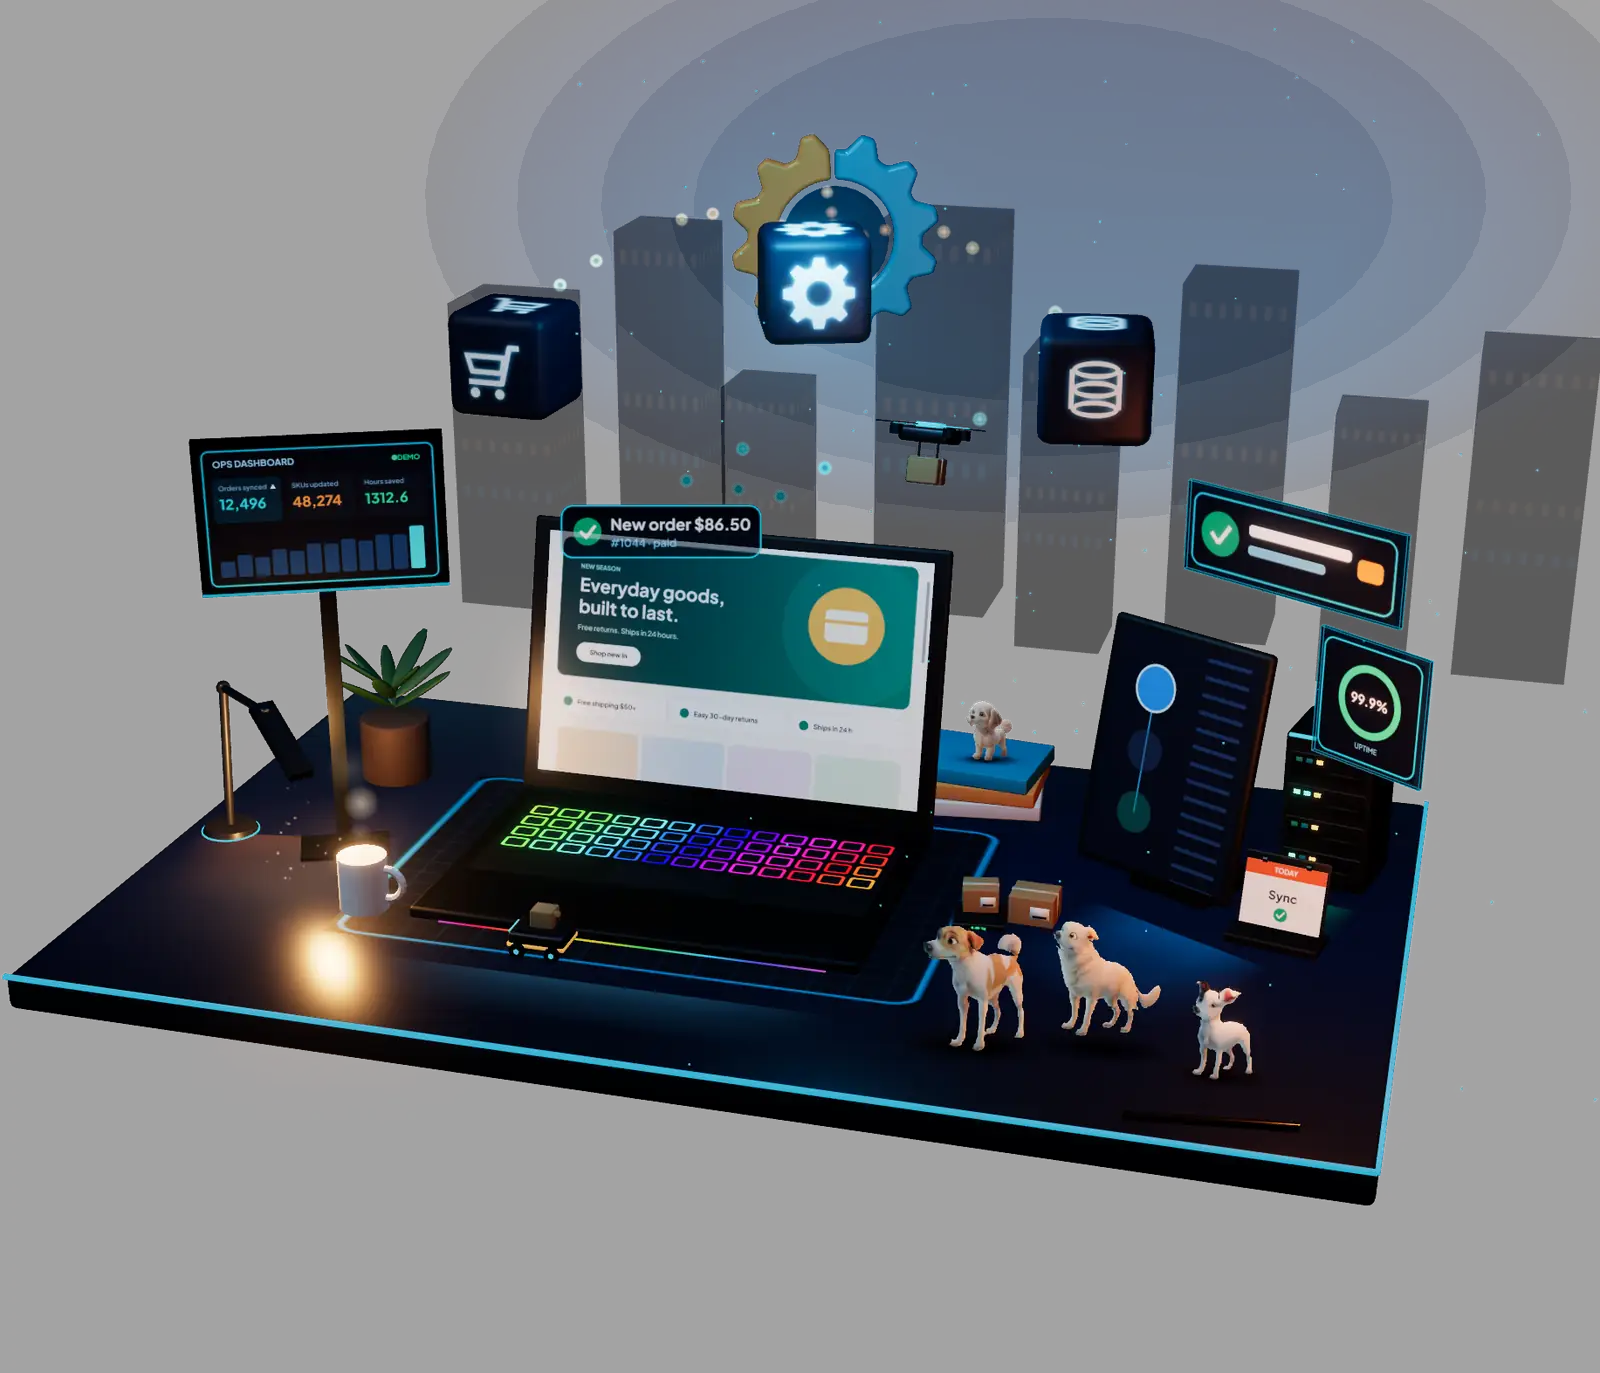
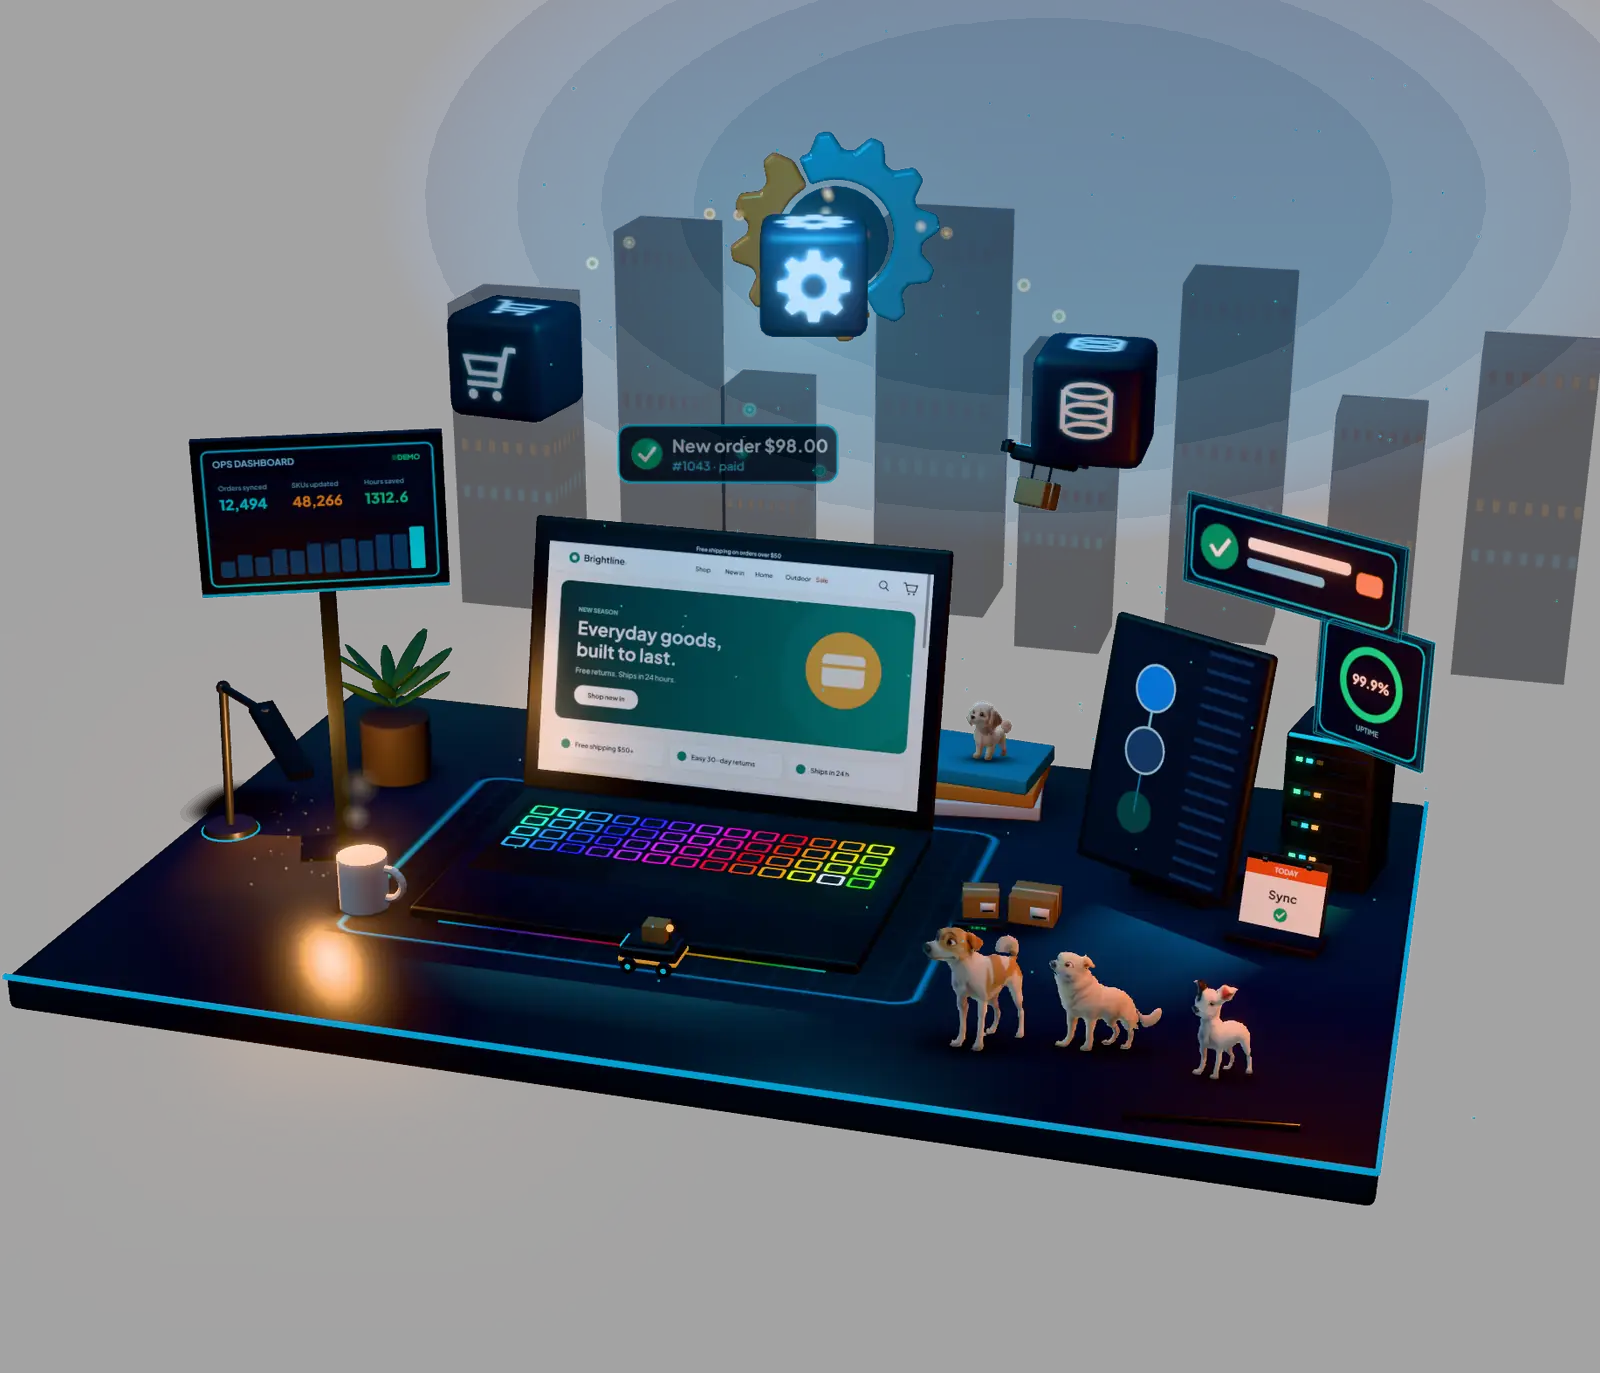
3D realism: shared reflections, contact shadows, Neutral tone mapping; form focus ring
- Scene-wide PMREM environment (set before shader warm-up)
- Soft contact shadows under the desk props
- Neutral tone mapping, exposure 0.7; posters re-captured to match
- Visible focus ring on contact form fields

diff --git a/src/scripts/effects/36-hero-3d.js b/src/scripts/effects/36-hero-3d.js
@@ -174,8 +174,8 @@
        desktop TBT in the 2026-10-07 profile). Without them the compile
        wait stays in the GPU process. */
     renderer.debug.checkShaderErrors = false;
-    renderer.toneMapping = THREE.ACESFilmicToneMapping;
-    renderer.toneMappingExposure = 0.75;
+    renderer.toneMapping = THREE.NeutralToneMapping;   /* keeps the neon saturated; ACES washed it, AgX more so (compared 2026-10-24) */
+    renderer.toneMappingExposure = 0.7;
     renderer.setClearColor(0x000000, 0);
 
     var world = new THREE.Scene();
@@ -899,7 +899,7 @@
       var h = manilaHour();
       var day = sstep(5.5, 8, h) * (1 - sstep(17, 19.5, h));
       var dusk = Math.max(1 - Math.abs(h - 18.2) / 1.3, 1 - Math.abs(h - 6.2) / 1.1, 0);
-      renderer.toneMappingExposure = 0.75 + 0.4 * day;
+      renderer.toneMappingExposure = 0.7 + 0.4 * day;
       /* intensities are set per frame with the mood (below); this only
          stores how much daylight to add */
       dayK = day; hemi.color.copy(HEMI0).lerp(HEMI_DAY, day);
@@ -1492,6 +1492,11 @@
         desk.material = desk.material.clone();
         desk.material.envMap = rt.texture; desk.material.envMapIntensity = 0.55; desk.material.roughness = 0.3;
       }
+      /* the same strips, faintly, for everything else: metal, plastic and
+         glass get something to reflect instead of rendering flat. Set here,
+         before the shaders are compiled, so no program is built twice. */
+      world.environment = rt.texture; world.environmentIntensity = 0.6;
+      contactShadows(root);
       /* glow decals: soft streak fading away from the source */
       var c = document.createElement('canvas'); c.width = 64; c.height = 128;
       var g = c.getContext('2d'), gr = g.createLinearGradient(0, 0, 0, 128);
@@ -1511,6 +1516,36 @@
           /* the bright end (texture top) sits at the source, toward -z */
           m.position.set(d[2], 0.004, d[3] + d[5] / 2); m.renderOrder = 1; rig.add(m);
         });
+    }
+
+    /* ── contact shadows: a soft dark footprint under each prop that
+       stands on the desk, so nothing looks pasted on. One shared 64 px
+       texture, no lights or shadow maps: free to draw. */
+    function contactShadows(root) {
+      var c = document.createElement('canvas'); c.width = c.height = 64;
+      var g = c.getContext('2d');
+      /* a blurred rounded footprint: the shape is drawn off canvas and
+         only its blurred shadow lands inside */
+      g.shadowColor = '#000'; g.shadowBlur = 10; g.shadowOffsetX = 200;
+      g.beginPath(); g.roundRect(14 - 200, 14, 36, 36, 10); g.fill();
+      var tex = new THREE.CanvasTexture(c), geo = new THREE.PlaneGeometry(1, 1).rotateX(-Math.PI / 2);
+      var mat = new THREE.MeshBasicMaterial({ map: tex, color: 0x000000, transparent: true, opacity: 0.8, depthWrite: false, polygonOffset: true, polygonOffsetFactor: -2 });
+      var bb = new THREE.Box3(), p = new THREE.Vector3();
+      root.updateMatrixWorld(true);
+      ['laptop_base', 'mug', 'pot', 'lamp_base', 'book_0', 'tablet_stand', 'rack', 'parcels', 'cal'].forEach(function (n) {
+        var o = root.getObjectByName(n);
+        if (!o || !o.parent) return;
+        bb.setFromObject(o);
+        var m = new THREE.Mesh(geo, mat);
+        /* the texture's footprint fills the middle 36 of 64 px, so scale
+           up to put the solid part under the object and the fade around it */
+        p.set((bb.min.x + bb.max.x) / 2, bb.min.y + 0.002, (bb.min.z + bb.max.z) / 2);
+        o.parent.worldToLocal(p);
+        var s = o.parent.getWorldScale(new THREE.Vector3());
+        m.position.copy(p);
+        m.scale.set((bb.max.x - bb.min.x) * 1.9 / s.x, 1, (bb.max.z - bb.min.z) * 1.9 / s.z);
+        m.renderOrder = 1; o.parent.add(m);
+      });
     }
 
     /* ── dust motes drifting in the lamp's light cone. Each mote keeps a

diff --git a/src/styles/63-audit-fixes-2026-10-07.css b/src/styles/63-audit-fixes-2026-10-07.css
@@ -95,3 +95,7 @@ html:not(.js) .theme-toggle,html:not(.js) .nav-toggle{display:none}
 html.quick .motion-toggle .qt-off{display:inline}
 html:not(.js) .motion-toggle{display:none}
 @media (pointer:coarse){.motion-toggle{position:relative}.motion-toggle::after{content:'';position:absolute;left:50%;top:50%;width:max(100%,44px);height:max(100%,44px);transform:translate(-50%,-50%)}}
+
+/* 2026-10-24: form fields drop the outline for a border tint; give keyboard
+   users the same ring as everything else (.fg input beats the global rule). */
+.fg input:focus-visible,.fg textarea:focus-visible,.fg select:focus-visible{outline:2px solid var(--cyan);outline-offset:2px}

diff --git a/history/2026-10-24.md b/history/2026-10-24.md
@@ -25,3 +25,10 @@
 ## 14:09
 - Owner: Jojo (personal). Result-number search for Kingdomland, Sapmok, Project Health, Deirdre P. Malcolm (helper, read-only): no documented figures; only real one is the 5-star Deirdre review (confirmed earlier). Added "5-star | client review" to the Deirdre card and modal on Jojo's go. Others stay without a metric (no invented numbers). Cal.com skipped, DNSSEC skipped (Netlify DNS).
 - HSTS: Jojo confirmed no subdomains. netlify.toml now sends max-age=63072000; includeSubDomains; preload. Pushed on his go. Next: Jojo submits jonathantubay.com at hstspreload.org.
+
+## 14:15
+- Owner: Jojo (personal). Research only, nothing changed: 3 Sonnet helpers (live UX audit with device shots, 2025-26 mobile/desktop patterns, realistic low-cost 3D). Merged into Best/Medium/Skip plan for Jojo: batch D (UX fixes: sticky CTA after hero, svh, global reduced-motion, hover guards, focus-visible, 1366 hero overlap, Pixel page-length check), batch E (cross-document view transitions, prefetch, AVIF), batch F 3D realism (shared PMREM env, AgX/Neutral tone mapping, baked AO/contact shadow plane, physical glass). Note: helper flagged hamburger <44 px but 63-audit-fixes already adds a 44 px ::after hit area on coarse pointers. Waiting for Jojo pick.
+
+## 14:25
+- Owner: Jojo (personal). Built Jojo's go on D + F1-F3. QC of the audit: D1 sticky CTA (already hides over hero/contact/footer), D3 reduced motion (24-reduced-motion-granular.css already global), D2 svh (tunnels/world are desktop-only, svh=vh there), D4 hover guards (main lifts already reset; rest 2 px), D6 1366 overlap (screenshots at 1366/1440/1920 clean) and D7 Pixel page length (content-visibility placeholder heights; real Work height equal) were false or not worth the risk. Done: D5 focus-visible ring on contact form fields (63-audit-fixes).
+- 3D (36-hero-3d.js): shared PMREM strip env on the whole scene (environmentIntensity 0.6, set before compileAsync so no recompiles), runtime soft contact shadows under laptop, mug, pot, lamp, books, tablet, rack, parcels, calendar (one 64 px canvas texture), tone mapping ACES 0.75 to Neutral 0.7 (AgX and ACES compared side by side, Neutral kept the neon). Frame time unchanged 16.7 ms median/p95 at 1600x1000. Hero posters re-captured so phones get the new look. Lighthouse CI passes. Local commit; push waits for Jojo.
